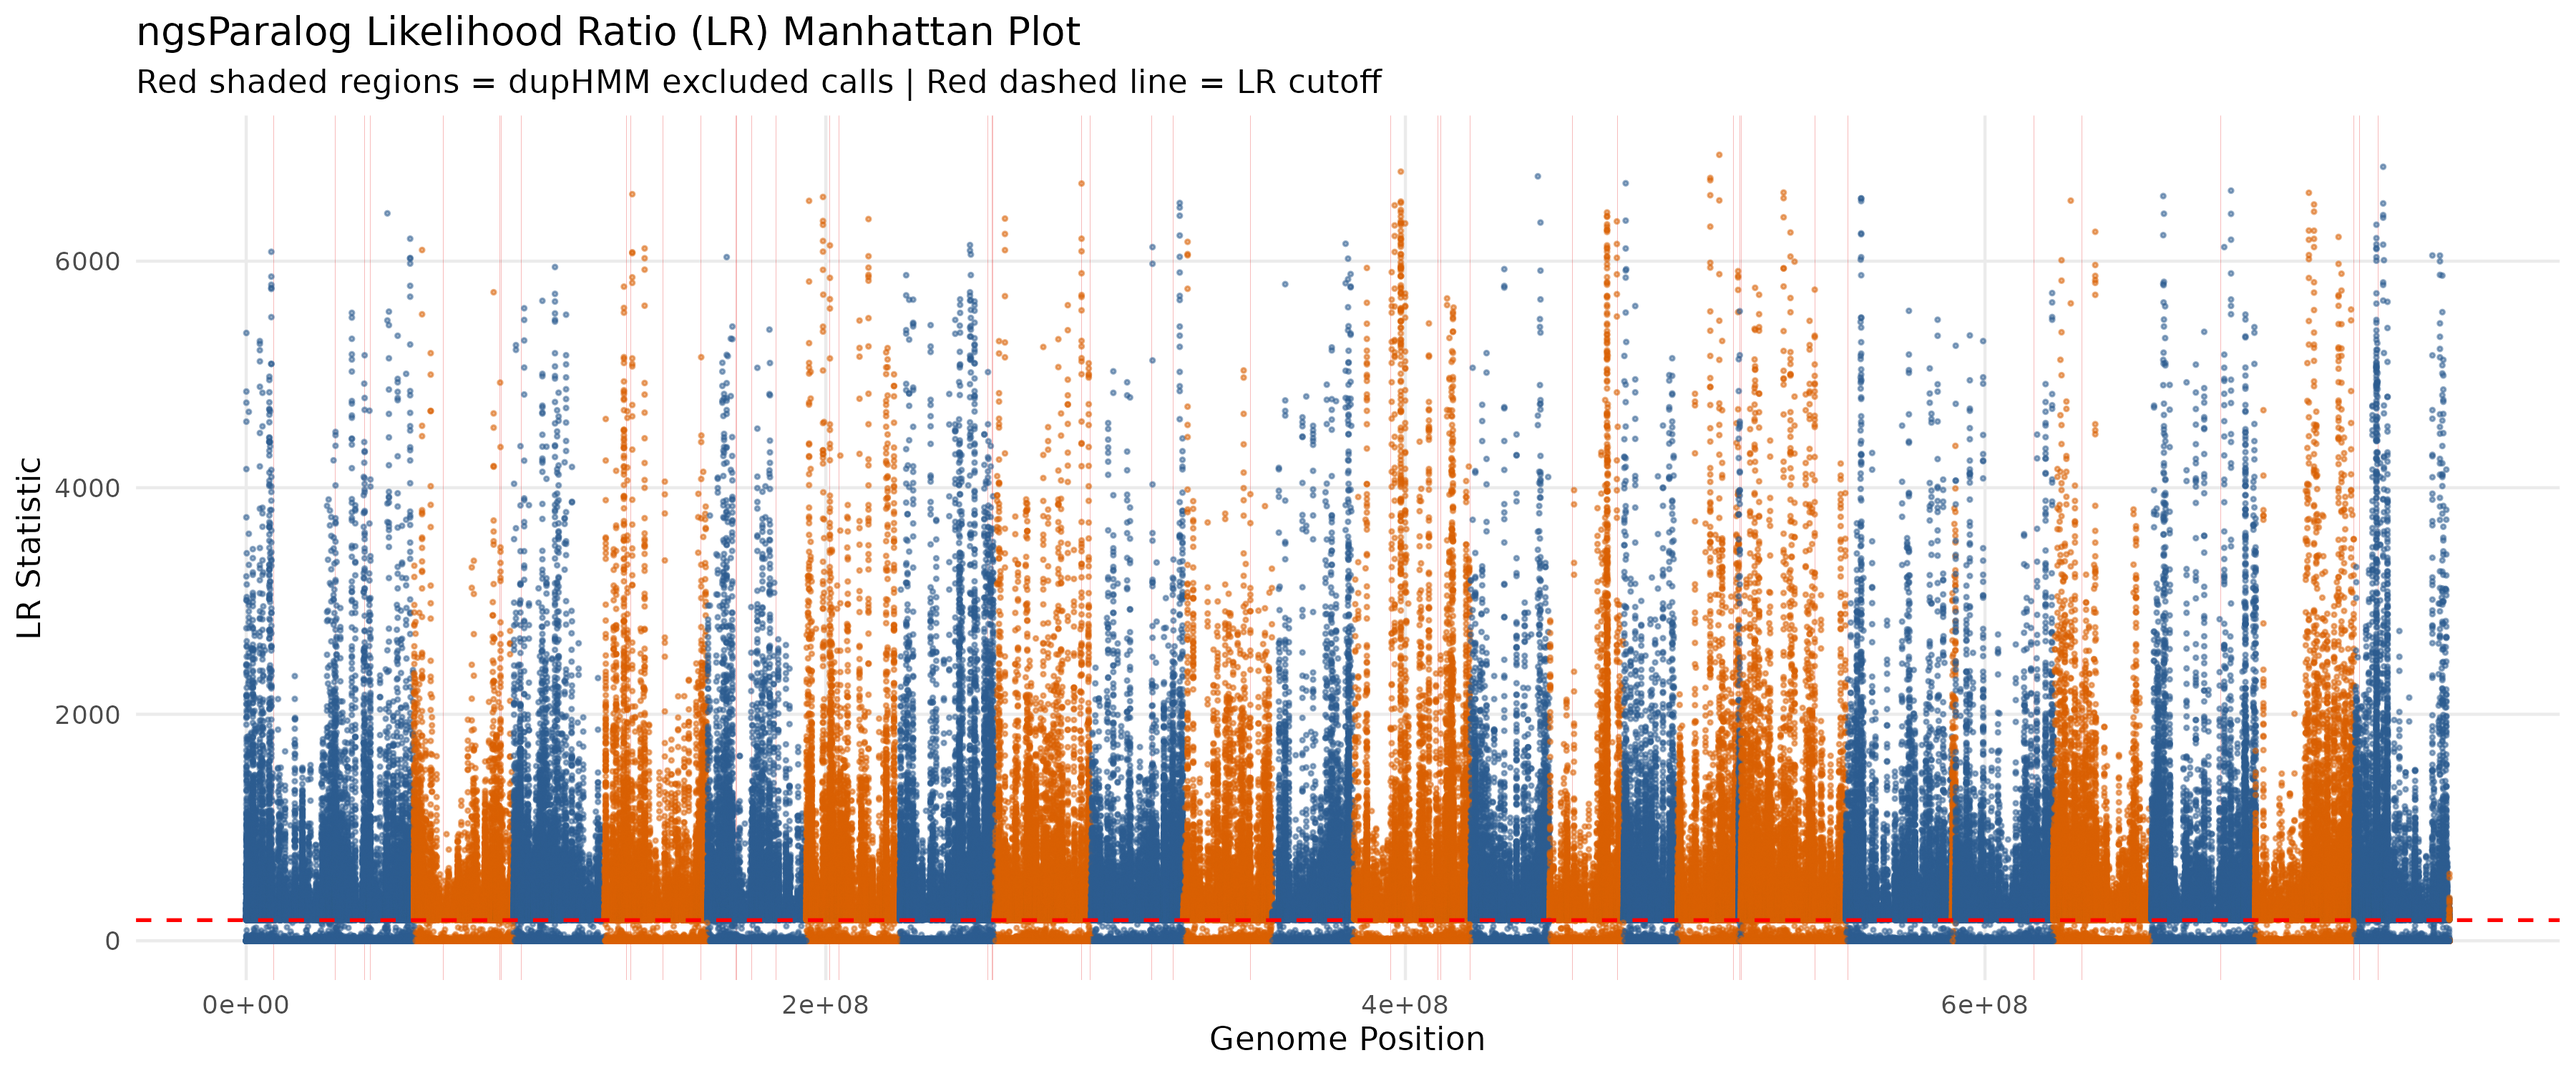
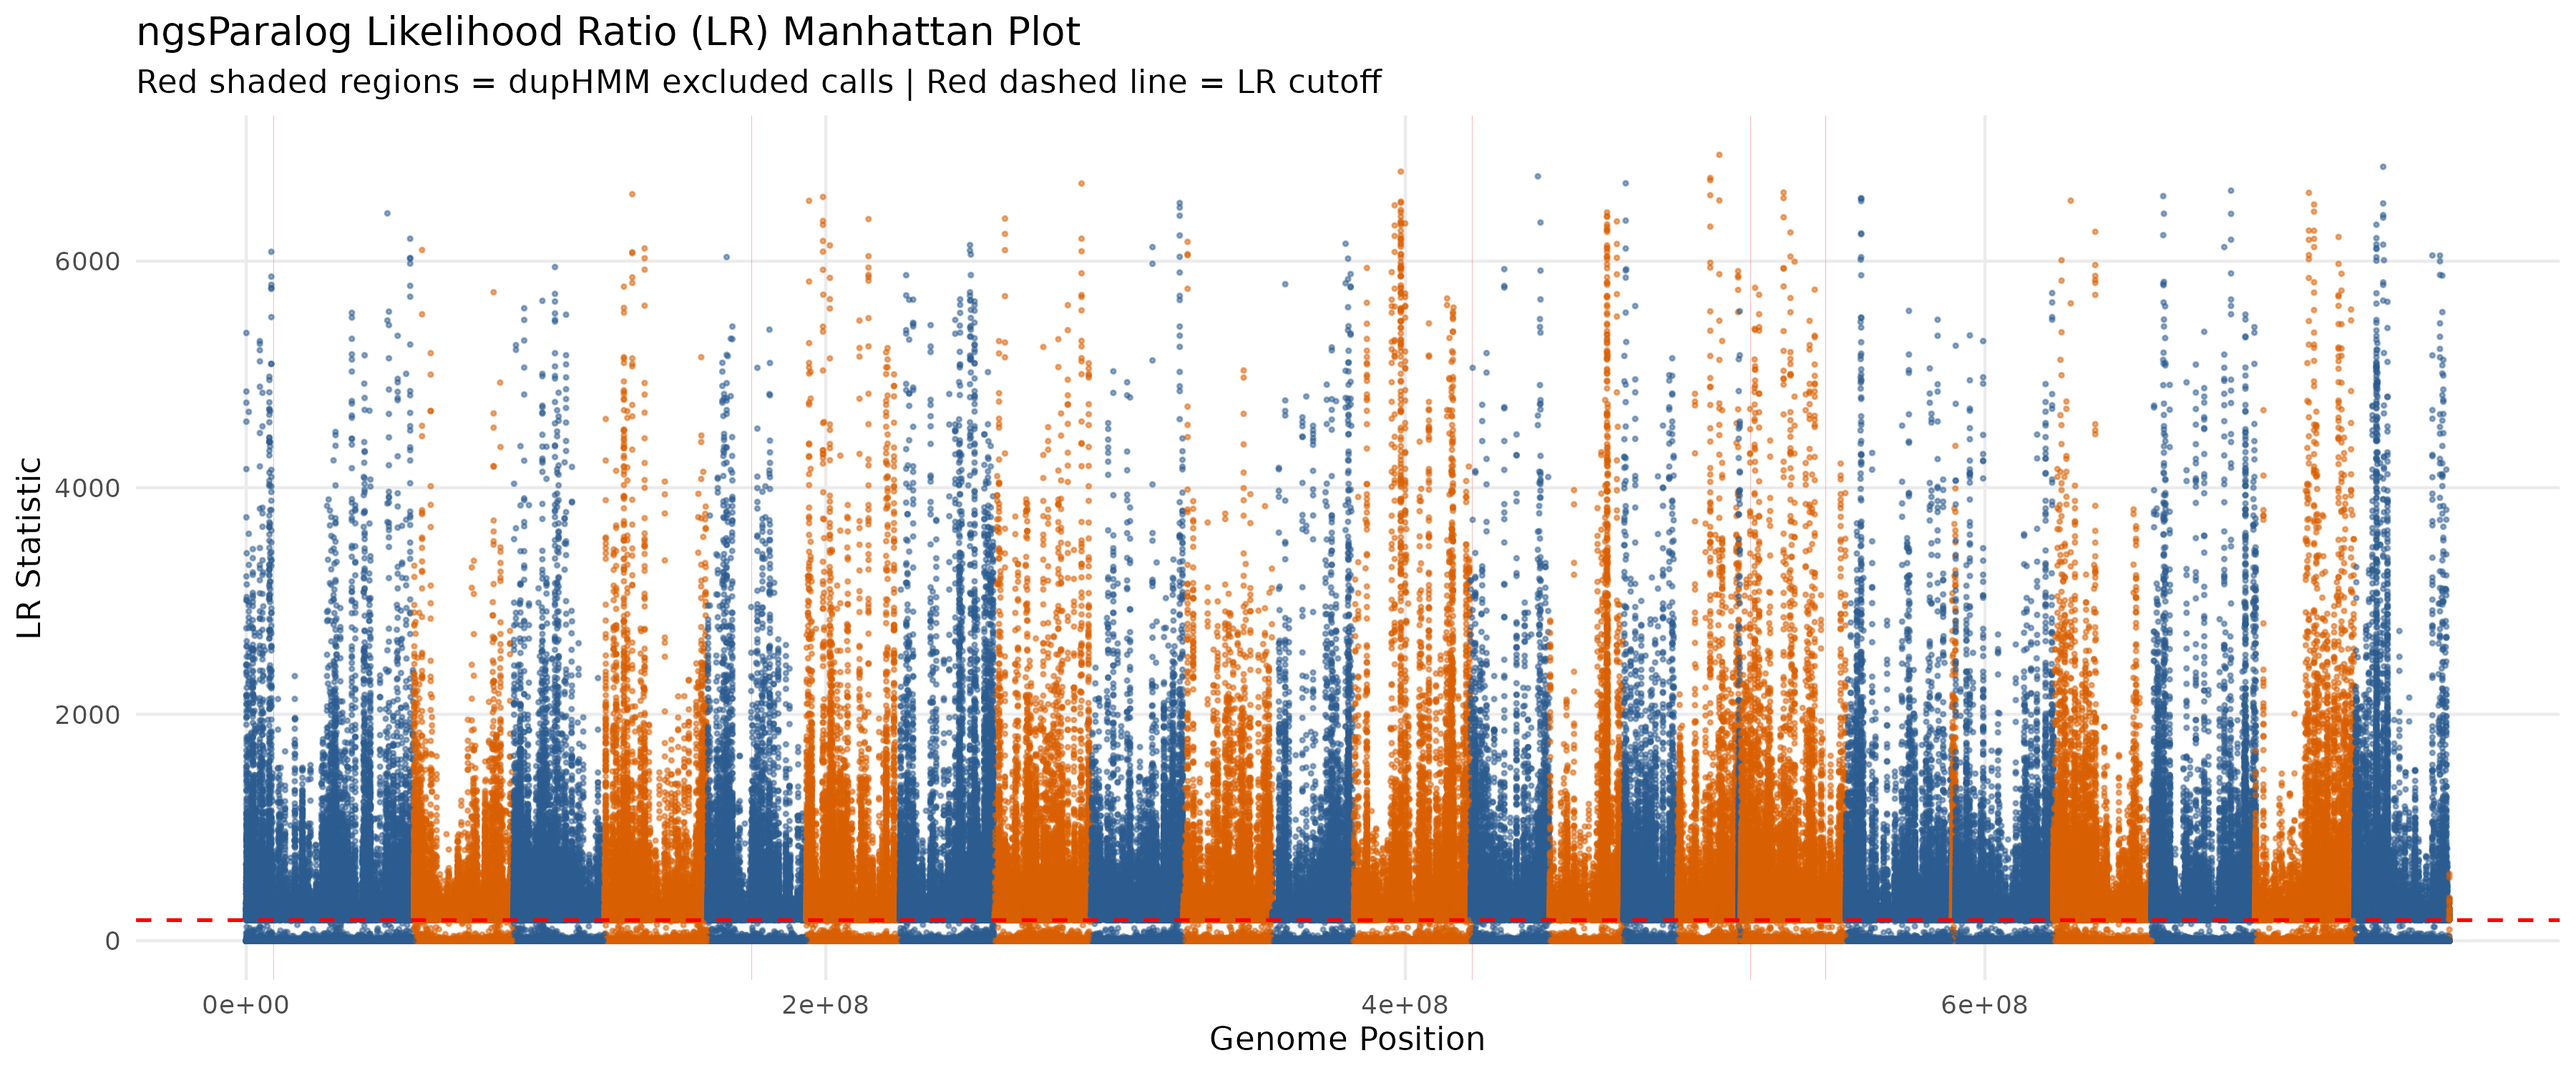
Plot filter overlaps in nf-paralog, fix bugs.

Changed region(s): [[0.0933, 0.8587, 0.9644, 0.8893]]

diff --git a/nf-pipelines/nf-paralog/readme.md b/nf-pipelines/nf-paralog/readme.md
@@ -1,7 +1,7 @@
 # nf-paralog: Test for paralogs
 
 ## Overview
-This is a Nextflow DSL2 workflow designed for processing high-throughput sequencing data to test for paralogs. It is an extension of nf-trim-generode that only maps modern reads, maps them with very few quality tests, runs an ANGSD test for HWE and depth outliers, and runs ngsParalog. It optionally runs the dupHMM step of ngsParalog.
+This is a Nextflow DSL2 workflow designed for processing high-throughput sequencing data to test for paralogs. It is an extension of nf-trim-generode that only maps modern reads, maps them with very few quality tests, runs an ANGSD test for HWE and depth outliers, and runs ngsParalog. It optionally runs the dupHMM step of ngsParalog, merges adjacent paralogous regions, and drops small putatively paralogous regions.
 
 It is built to run on Old Dominion University's WAHAB cluster. 
 
@@ -116,7 +116,10 @@ params.rmdup_script = "${projectDir}/scripts/samremovedup.py"
 params.ngsparalog_bin = "/archive/carpenterlab/pire/softwares/ngsParalog/ngsParalog"  // path to ngsParalog binary
 params.run_duphmm   = true      // Toggle dupHMM execution
 params.duphmm_script = "/archive/carpenterlab/pire/softwares/ngsParalog/dupHMM.R"     // Path to dupHMM.R
-params.duphmm_emit  = 1         // 0 = LR only, 1 = both LR and Coverage
+params.duphmm_emit  = 1         // 0 = LR only, 1 = both LR and Coverage. Latter is recommended.
+params.duphmm_penalty    = "BIC"  // Options: "BIC", "AIC", or "none". BIC and AIC make it less likely that dupHMM will identify paralogous regions. Useful if dupHMM is identifying too many small regions.
+params.duphmm_merge_dist = 100  // Script will merge adjacent paralogous regions. Maximum distance (bp) between regions to merge.
+params.duphmm_min_len    = 1000  // Script will drop small putatively paralogous regions. Minimum length (bp) threshold for retained regions
 ```
 
 Other parameters that you are less likely to adjust can be found in the header of `main.nf`.
@@ -208,7 +211,8 @@ results/
 * **`fastp/`**: Quality control and read-preprocessing reports generated by `fastp` for each processed sample in HTML and JSON formats.
 * **`paralogs/ngsparalog_sites.bed`**: A BED file containing candidate paralogous positions identified by `ngsParalog`, filtered using the dynamically calculated high-LR quantile threshold (`params.lr_quantile`).
 * **`paralogs/ngsparalog_threshold.txt`**: Text file recording the calculated numeric LR threshold value derived from `params.lr_quantile` (default 99.9th percentile).
-* **`paralogs/ngsparalog_duphmm_regions.bed`**: BED file containing genomic intervals classified as duplicated by dupHMM.R HMM state inference (only created when `params.run_duphmm = true`).
+* **`paralogs/ngsparalog_duphmm_regions.bed`**: BED file containing genomic intervals classified as duplicated by dupHMM.R HMM state inference (only created when `params.run_duphmm = true`), before merging adjacent regions and filtering on size.
+* **`paralogs/ngsparalog_duphmm_regions.filtered.bed`**: BED file containing genomic intervals classified as duplicated by dupHMM.R HMM state inference (only created when `params.run_duphmm = true`), after merging adjacent regions and filtering on region size.
 
 **`plots/` (Plots)**
 

diff --git a/README.md b/README.md
@@ -946,6 +946,19 @@ BED files, fastp reports, site allele balance, bam files and other results in th
 
 ![Manhattan plot of the overlap among regions flagged by each method](nf-pipelines/nf-paralog/results/plots/filter_overlaps_manhattan.png)
 
+### 14.1 Do paralogous and repeat regions overlap?
+Made a script to plot the overlap of Repeat Masker's identified regions and the newly identified regions. From the base directory:
+```
+sbatch scripts/plot_repeat_paralog_overlaps.sbatch
+```
+
+
+### 14.2 Clean up
+Remove the 214G temporary directory:
+```
+rm -r nf-pipelines/nf-paralog/work/
+```
+
 
 ## 15 Re-run ANGSD without soft-clipped reads
 As a sensitivity test, let's re-run `nf-angsd-selection-1x` after stripping out all soft-clipped reads. Create a `temp/` directory and put the bams from `nf-trim-generode`'s `results-iridian` there after stripping out unmapped and reads with any soft-clipping:
